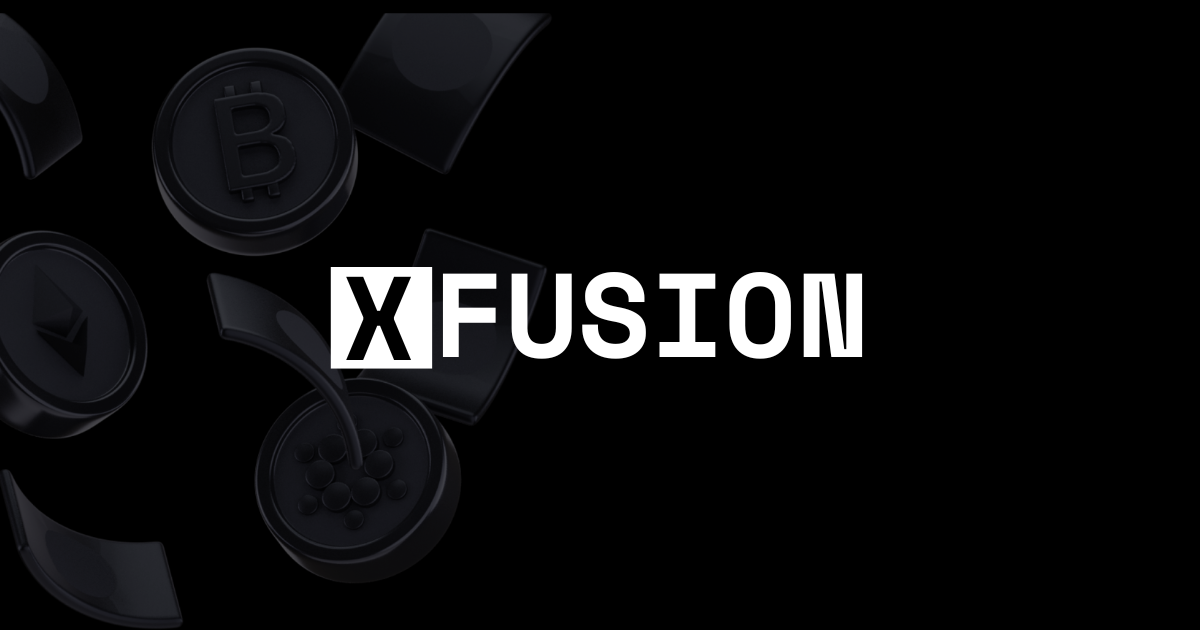
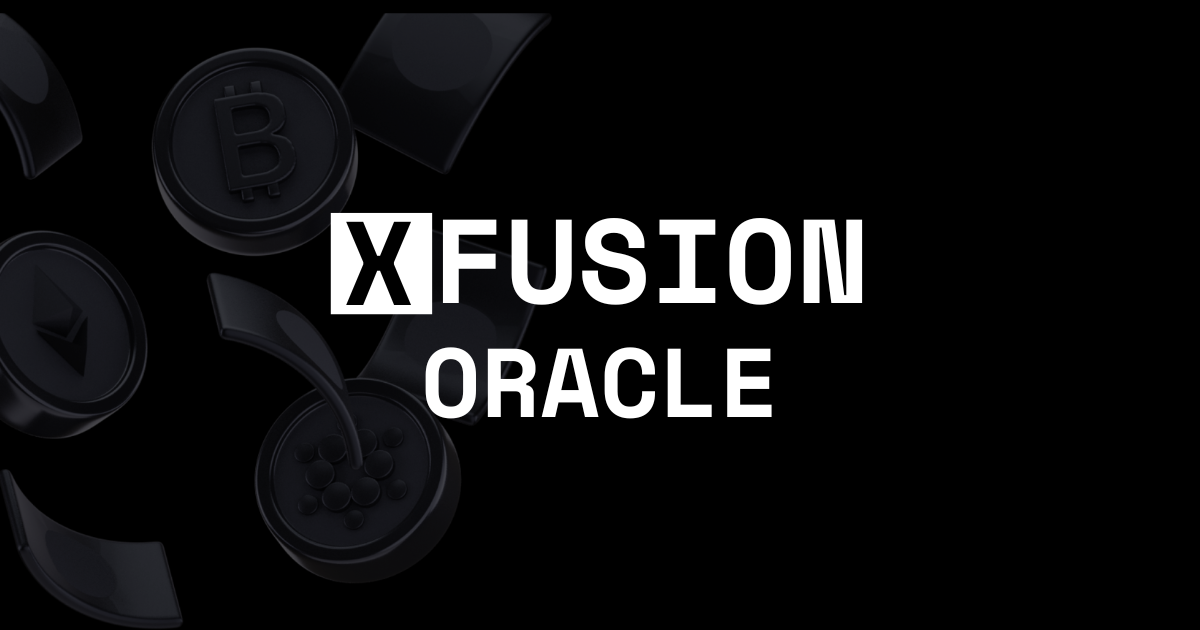
deployment prep

Changed region(s): [[0.2775, 0.3317, 0.74, 0.6635]]

diff --git a/src/frontend/index.html b/src/frontend/index.html
@@ -2,12 +2,12 @@
 <html lang="en">
   <head>
     <meta charset="UTF-8" />
-    <link rel="icon" type="image/svg+xml" href="/vite.svg" />
+    <link rel="icon" type="image/svg+xml" href="/favicon.svg" />
     <meta name="viewport" content="width=device-width, initial-scale=1.0" />
     <!-- Primary Meta Tags -->
-    <title>XFusion - Bundle Tokens. Trade as One.</title>
-    <meta name="title" content="XFusion - Bundle Tokens. Trade as One." />
-    <meta name="description" content="Crypto's ETF moment — reimagined for DeFi. Create diversified crypto portfolios as single tradeable tokens with institutional-grade security." />
+    <title>XFusion Oracles</title>
+    <meta name="title" content="XFusion Oracles - Fusing Market Data Into Reality" />
+    <meta name="description" content="Price oracles on the Internet Computer. Real-time cryptocurrency, stock, and commodity price feeds with cryptographic verification." />
     <meta name="keywords" content="crypto, DeFi, token bundling, portfolio, Chain-Key, blockchain, ethereum, bitcoin" />
     <meta name="author" content="XFusion" />
     

diff --git a/src/frontend/src/services/oracle.ts b/src/frontend/src/services/oracle.ts
@@ -141,5 +141,7 @@ export const formatConfidence = (confidence: [] | [bigint]): string => {
   return `±$${conf.toFixed(2)}`;
 };
 
-// Create oracle client instance
-export const oracleClient = new OracleClient('uxrrr-q7777-77774-qaaaq-cai');
+// Create oracle client instance - use mainnet canister ID
+export const oracleClient = new OracleClient('zutfo-jqaaa-aaaao-a4puq-cai', {
+  host: 'https://ic0.app'
+});
